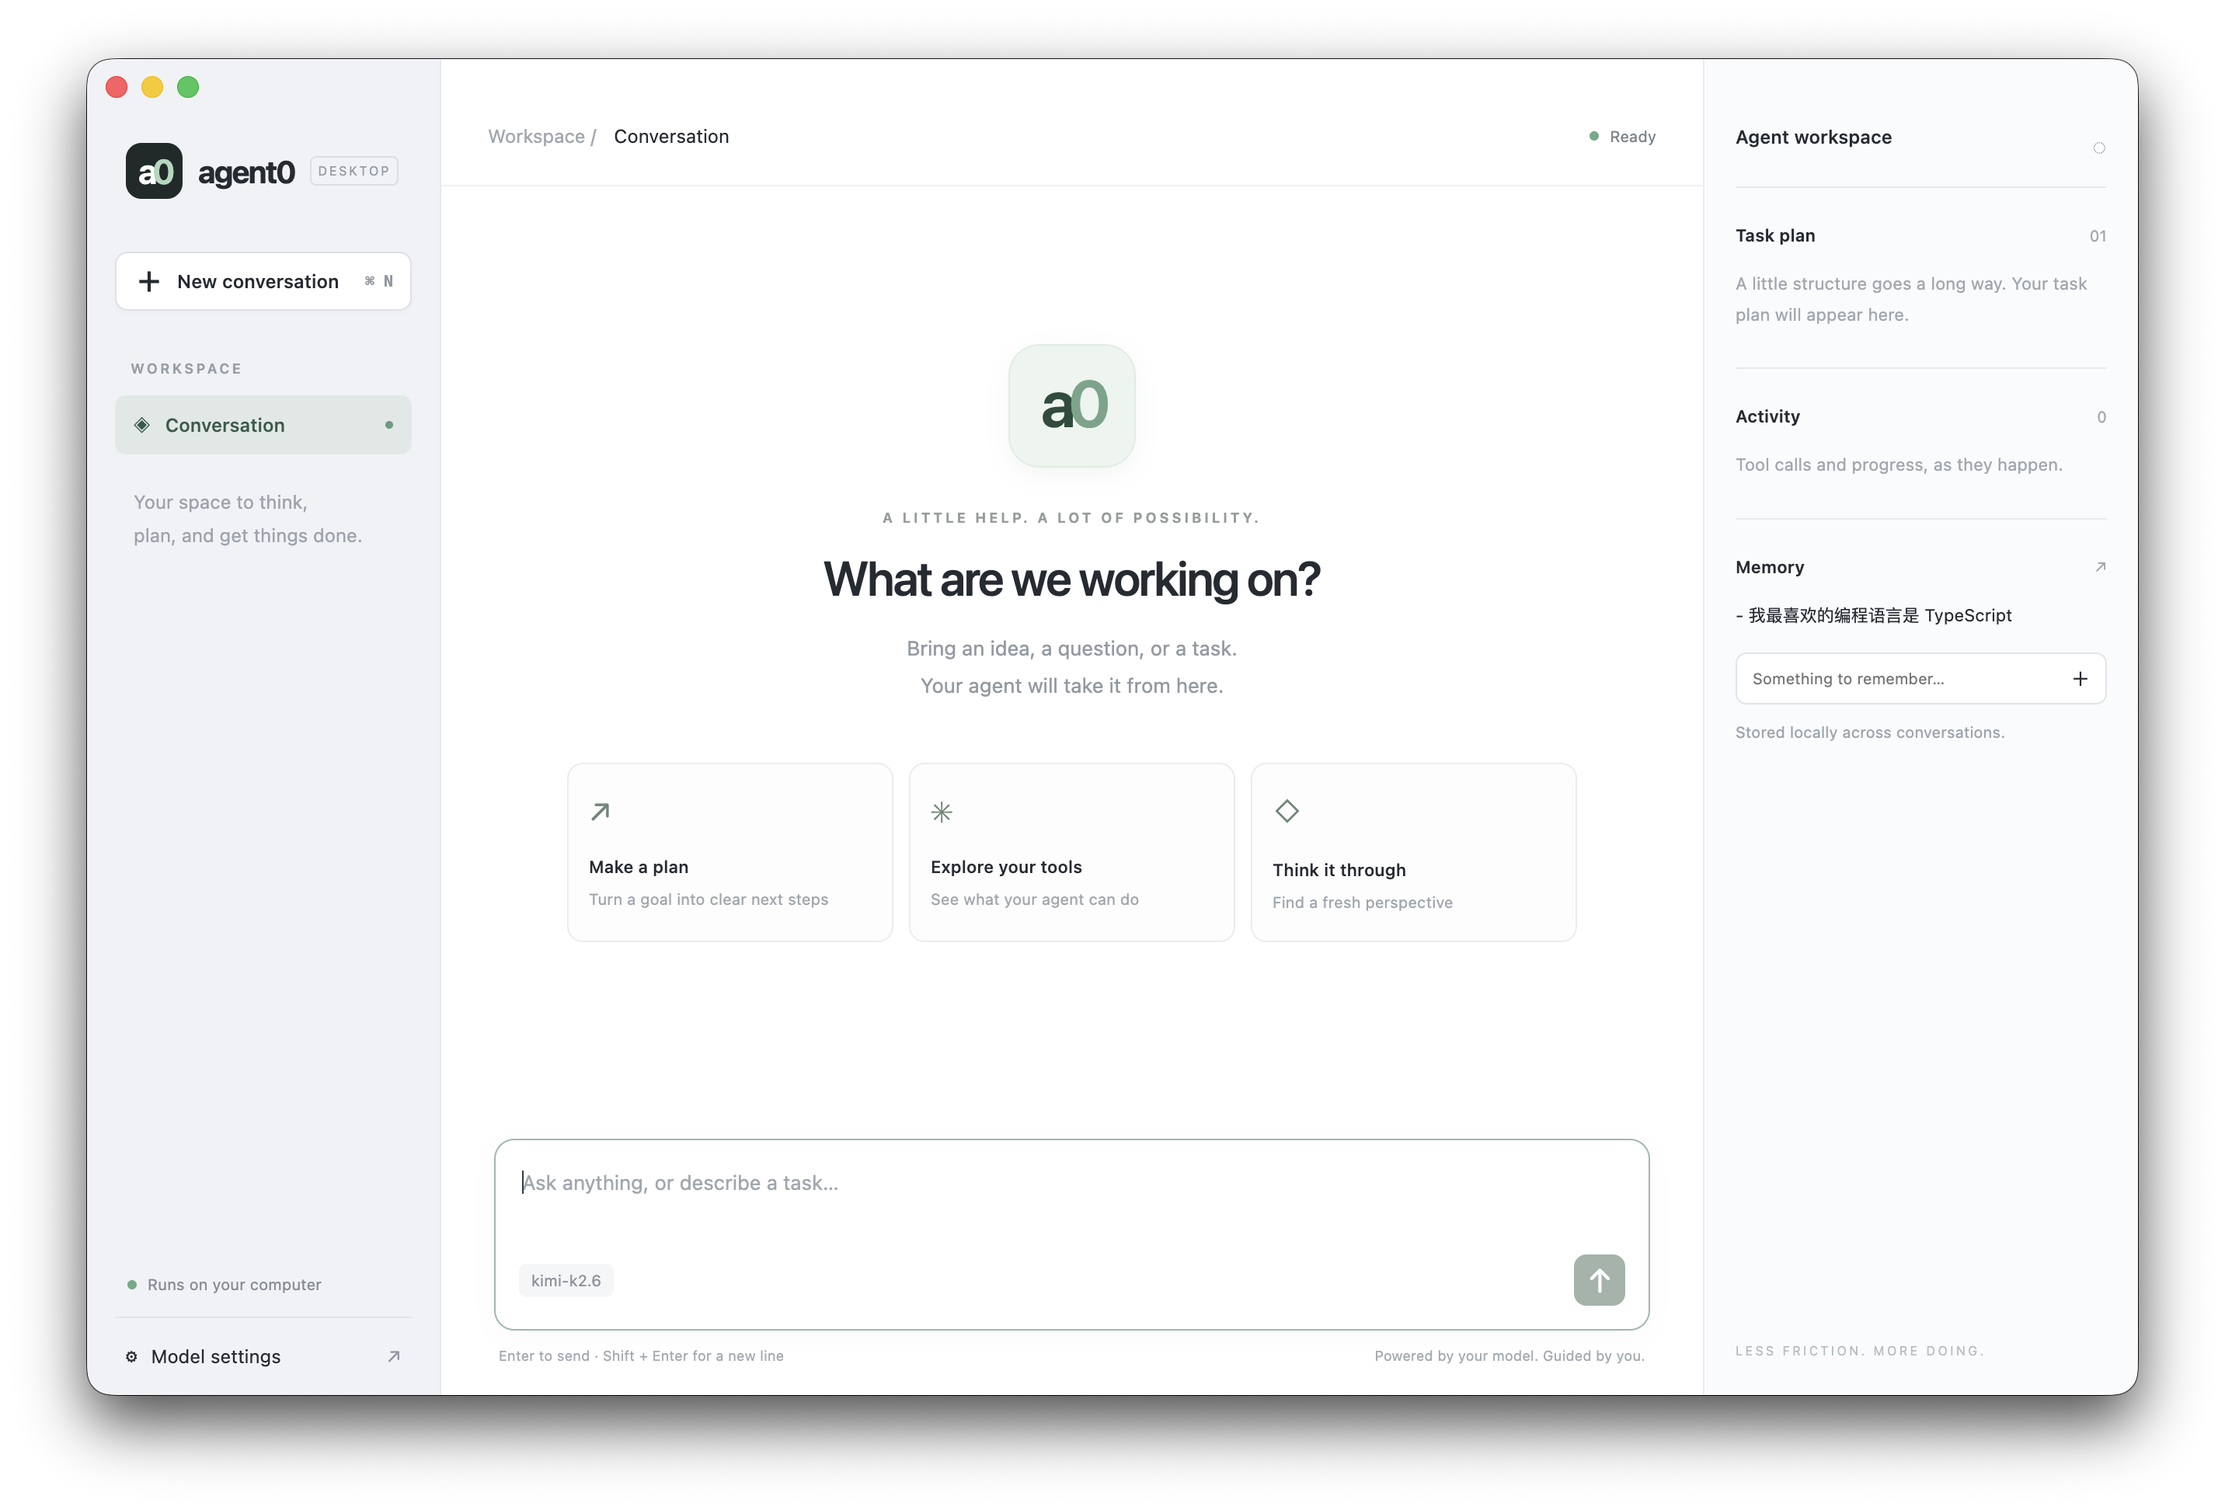
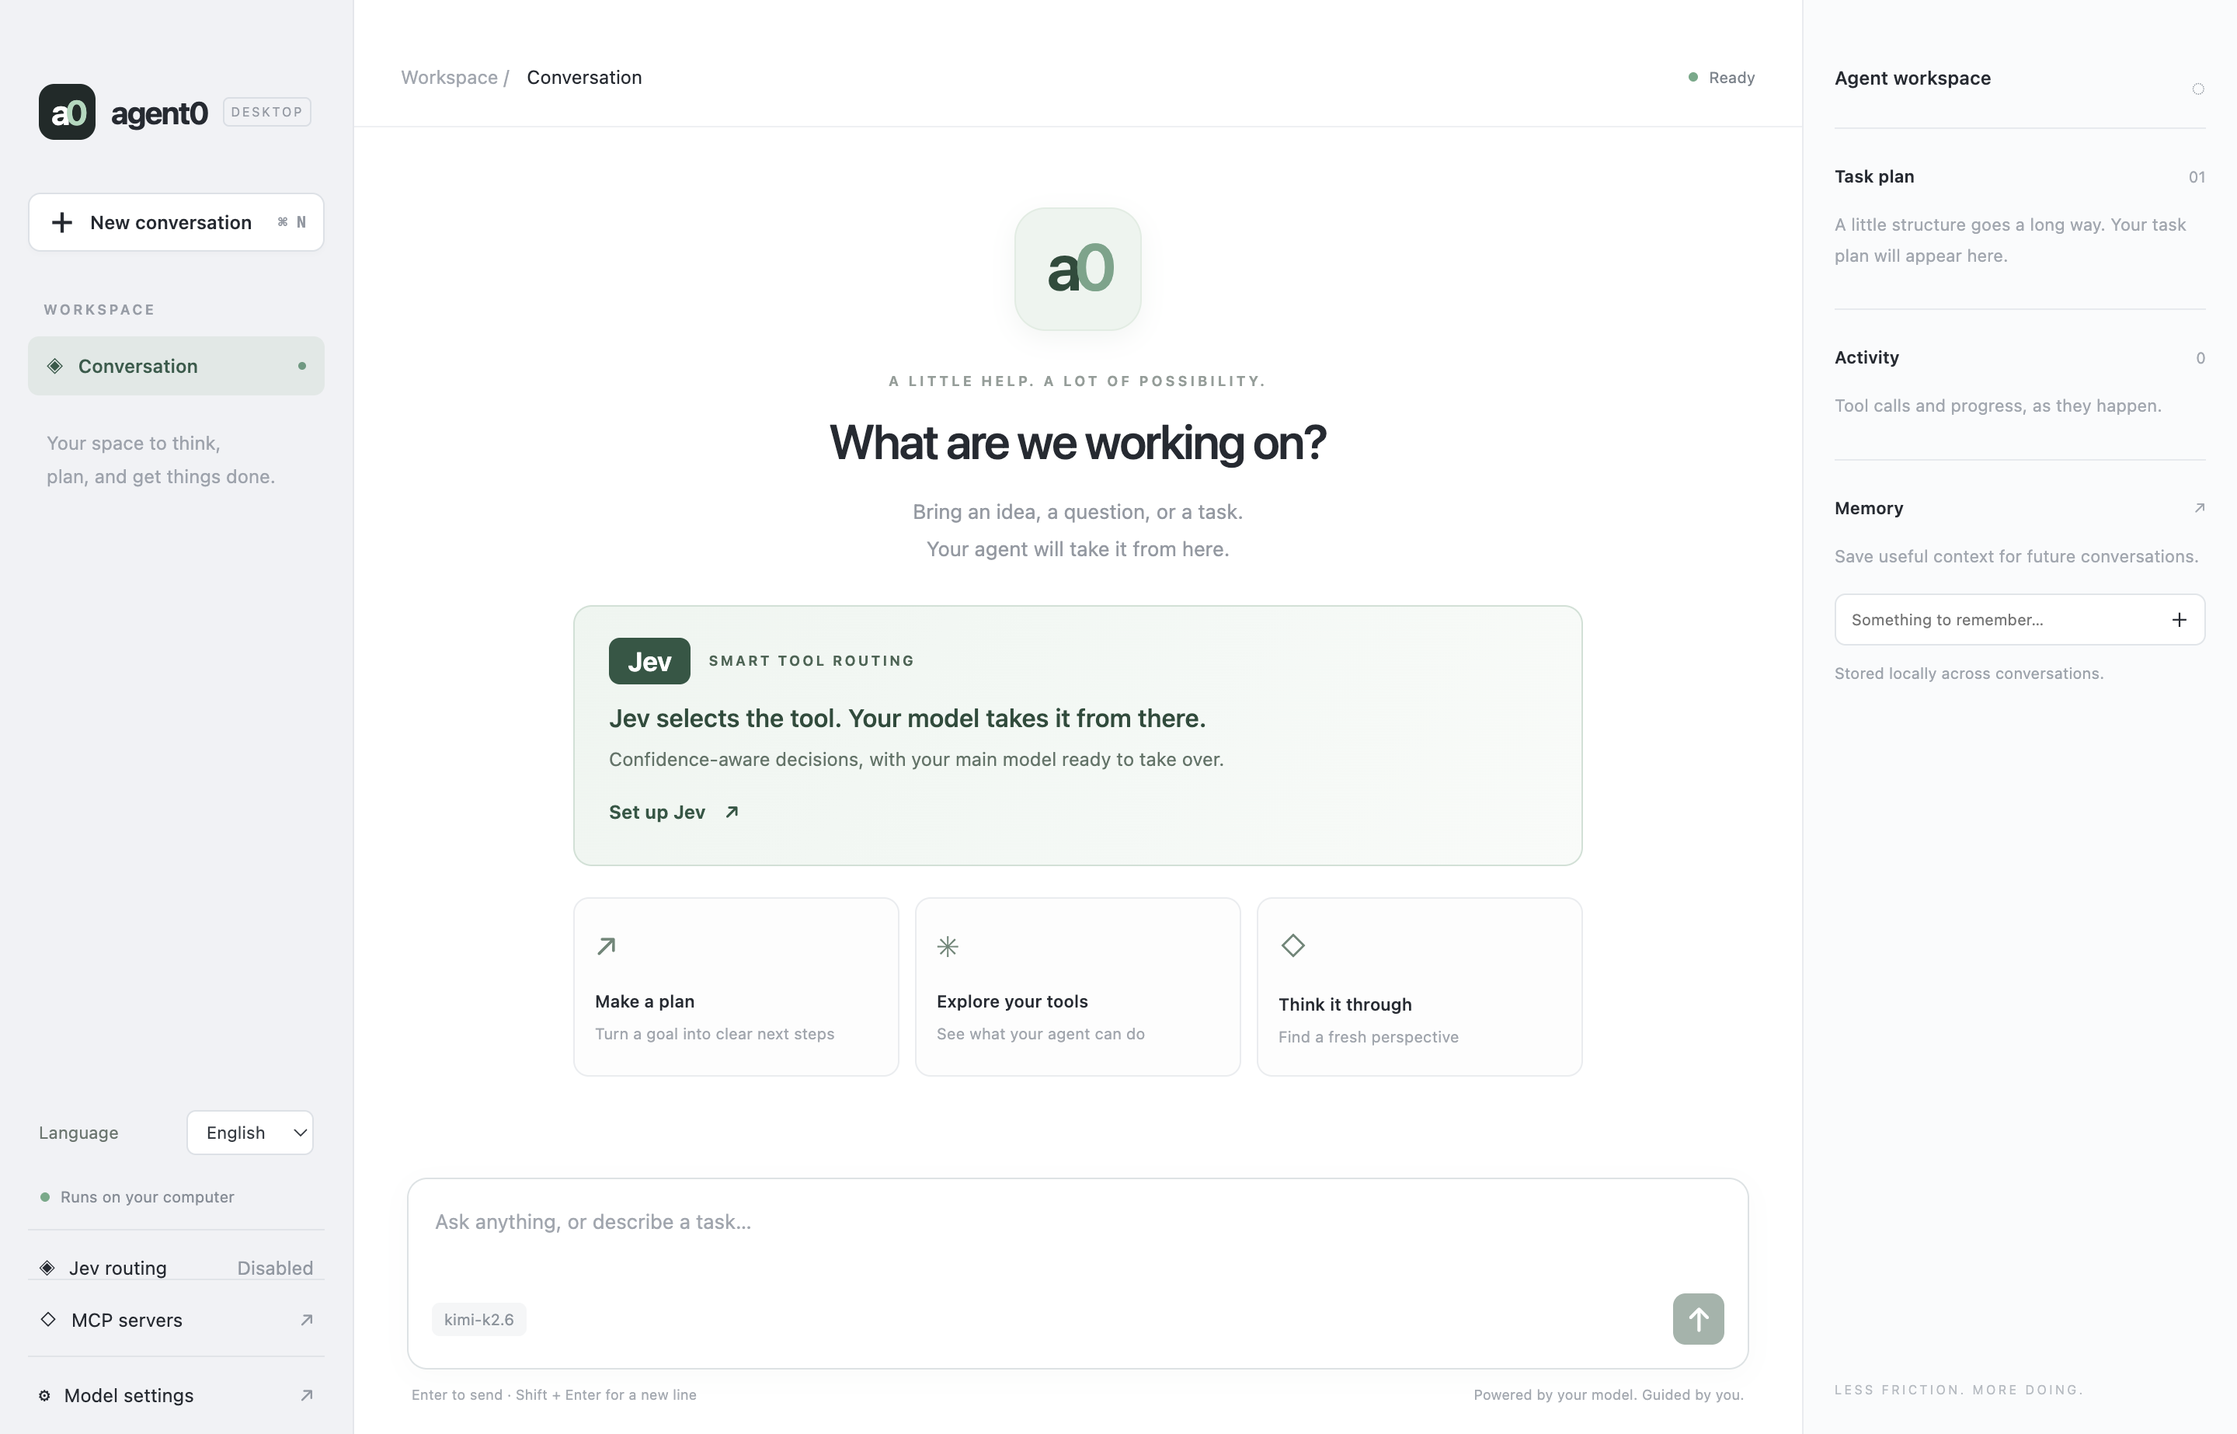
feat: highlight Jev support and add Chinese README

diff --git a/web/index.html b/web/index.html
@@ -19,7 +19,12 @@
   <main>
     <header><div><span class="breadcrumb" data-i18n="Workspace /">Workspace /</span> <span data-i18n="Conversation">Conversation</span></div><div class="connection"><span class="dot" id="status-dot"></span><span id="connection-label" data-i18n="Ready">Ready</span></div></header>
     <div id="messages" class="messages" aria-live="polite">
-      <section id="welcome" class="welcome"><div class="hero-mark">a<span>0</span></div><div class="eyebrow" data-i18n="A LITTLE HELP. A LOT OF POSSIBILITY.">A LITTLE HELP. A LOT OF POSSIBILITY.</div><h1 data-i18n="What are we working on?">What are we working on?</h1><p><span data-i18n="Bring an idea, a question, or a task.">Bring an idea, a question, or a task.</span><br><span data-i18n="Your agent will take it from here.">Your agent will take it from here.</span></p><div class="suggestions"><button data-prompt="Help me plan my day. Ask me about my priorities first." data-i18n-data-prompt="Help me plan my day. Ask me about my priorities first."><span>↗</span><strong data-i18n="Make a plan">Make a plan</strong><small data-i18n="Turn a goal into clear next steps">Turn a goal into clear next steps</small></button><button data-prompt="What tools can you use? Give me a short overview and a simple example." data-i18n-data-prompt="What tools can you use? Give me a short overview and a simple example."><span>✳</span><strong data-i18n="Explore your tools">Explore your tools</strong><small data-i18n="See what your agent can do">See what your agent can do</small></button><button data-prompt="Help me break down a complex problem. Ask me what I am trying to solve." data-i18n-data-prompt="Help me break down a complex problem. Ask me what I am trying to solve."><span>◇</span><strong data-i18n="Think it through">Think it through</strong><small data-i18n="Find a fresh perspective">Find a fresh perspective</small></button></div></section>
+      <section id="welcome" class="welcome"><div class="hero-mark">a<span>0</span></div><div class="eyebrow" data-i18n="A LITTLE HELP. A LOT OF POSSIBILITY.">A LITTLE HELP. A LOT OF POSSIBILITY.</div><h1 data-i18n="What are we working on?">What are we working on?</h1><p><span data-i18n="Bring an idea, a question, or a task.">Bring an idea, a question, or a task.</span><br><span data-i18n="Your agent will take it from here.">Your agent will take it from here.</span></p><div class="jev-feature">
+        <div class="jev-feature-heading"><span class="jev-feature-badge">Jev</span><span class="jev-feature-kicker" data-i18n="SMART TOOL ROUTING">SMART TOOL ROUTING</span></div>
+        <strong data-i18n="Jev selects the tool. Your model takes it from there.">Jev selects the tool. Your model takes it from there.</strong>
+        <p data-i18n="Confidence-aware decisions, with your main model ready to take over.">Confidence-aware decisions, with your main model ready to take over.</p>
+        <button id="jev-welcome-button" type="button"><span id="jev-welcome-label" data-i18n="Set up Jev">Set up Jev</span><span aria-hidden="true">↗</span></button>
+      </div><div class="suggestions"><button data-prompt="Help me plan my day. Ask me about my priorities first." data-i18n-data-prompt="Help me plan my day. Ask me about my priorities first."><span>↗</span><strong data-i18n="Make a plan">Make a plan</strong><small data-i18n="Turn a goal into clear next steps">Turn a goal into clear next steps</small></button><button data-prompt="What tools can you use? Give me a short overview and a simple example." data-i18n-data-prompt="What tools can you use? Give me a short overview and a simple example."><span>✳</span><strong data-i18n="Explore your tools">Explore your tools</strong><small data-i18n="See what your agent can do">See what your agent can do</small></button><button data-prompt="Help me break down a complex problem. Ask me what I am trying to solve." data-i18n-data-prompt="Help me break down a complex problem. Ask me what I am trying to solve."><span>◇</span><strong data-i18n="Think it through">Think it through</strong><small data-i18n="Find a fresh perspective">Find a fresh perspective</small></button></div></section>
       <div id="conversation"></div>
     </div>
     <div class="composer-area"><div id="error" class="error-banner" role="alert" hidden></div><div id="progress" class="progress" hidden><span class="spinner"></span><span id="progress-label" data-i18n="Thinking…">Thinking…</span></div><form id="chat-form" class="composer"><textarea id="prompt" rows="2" maxlength="32000" placeholder="Ask anything, or describe a task…" data-i18n-placeholder="Ask anything, or describe a task…" aria-label="Message" data-i18n-aria-label="Message"></textarea><div class="composer-bottom"><span id="model-label" data-i18n="Configure your model">Configure your model</span><button id="send" type="submit" title="Send message" data-i18n-title="Send message" aria-label="Send message" data-i18n-aria-label="Send message">↑</button></div></form><div class="composer-hint"><span data-i18n="Enter to send · Shift + Enter for a new line">Enter to send · Shift + Enter for a new line</span> <span data-i18n="Powered by your model. Guided by you.">Powered by your model. Guided by you.</span></div></div>

diff --git a/web/style.css b/web/style.css
@@ -256,7 +256,7 @@ header {
 
 .welcome {
   max-width: 650px;
-  margin: clamp(24px, 9vh, 100px) auto 24px;
+  margin: clamp(12px, 3vh, 32px) auto 24px;
   text-align: center;
 }
 
@@ -303,7 +303,66 @@ h1 {
   display: grid;
   grid-template-columns: repeat(3, 1fr);
   gap: 10px;
-  margin-top: 38px;
+  margin-top: 20px;
+}
+
+.jev-feature {
+  margin-top: 24px;
+  padding: 20px 22px;
+  border: 1px solid #cee0d5;
+  border-radius: 12px;
+  background: linear-gradient(120deg, #edf5ef, #f8fbf9);
+  text-align: left;
+}
+
+.jev-feature-heading {
+  display: flex;
+  align-items: center;
+  gap: 12px;
+  margin-bottom: 12px;
+}
+
+.jev-feature-badge {
+  border-radius: 7px;
+  padding: 5px 12px;
+  background: #2c5744;
+  color: white;
+  font-size: 17px;
+  font-weight: 650;
+}
+
+.jev-feature-kicker {
+  color: #476553;
+  font-size: 9px;
+  font-weight: 650;
+  letter-spacing: 1.4px;
+}
+
+.jev-feature strong {
+  color: #294c3b;
+  font-size: 16px;
+  font-weight: 550;
+}
+
+.jev-feature p {
+  color: #607468;
+  margin-top: 6px;
+  font-size: 12px;
+}
+
+.jev-feature button {
+  display: inline-flex;
+  align-items: center;
+  gap: 12px;
+  padding: 7px 0;
+  margin-top: 9px;
+  color: #2c5744;
+  font-size: 12px;
+  font-weight: 650;
+}
+
+.jev-feature button:hover {
+  text-decoration: underline;
 }
 
 .suggestions button {

diff --git a/web/jev-settings.js b/web/jev-settings.js
@@ -12,6 +12,7 @@ export function setupJevSettings() {
     $('jev-error').hidden = true;
     $('jev-settings').showModal();
   };
+  $('jev-welcome-button').onclick = () => $('jev-button').click();
   $('close-jev').onclick = () => $('jev-settings').close();
   $('jev-settings').addEventListener('close', () => { $('jev-key').value = ''; });
   $('jev-form').onsubmit = async (event) => {
@@ -32,6 +33,8 @@ export function setupJevSettings() {
       config = value;
       $('jev-button').disabled = busy;
       $('jev-save').disabled = busy;
+      $('jev-welcome-button').disabled = busy;
+      $('jev-welcome-label').textContent = t(value.enabled && value.configured ? 'Manage Jev' : 'Set up Jev');
       $('jev-status').textContent = t(value.enabled ? (value.configured ? 'Enabled' : 'Setup needed') : 'Disabled');
     },
   };

diff --git a/web/i18n.js b/web/i18n.js
@@ -1,4 +1,9 @@
 const chinese = {
+  'SMART TOOL ROUTING': '智能工具路由',
+  'Jev selects the tool. Your model takes it from there.': 'Jev 选择工具，主模型接力完成。',
+  'Confidence-aware decisions, with your main model ready to take over.': '根据置信度做出选择，不确定时由主模型接手。',
+  'Set up Jev': '配置 Jev',
+  'Manage Jev': '管理 Jev',
   'Jev routing': 'Jev 智能路由',
   'Enable Jev routing': '启用 Jev 智能路由',
   'TypeSafe API key': 'TypeSafe API 密钥',

diff --git a/README.zh-CN.md b/README.zh-CN.md
@@ -1,0 +1,91 @@
+# agent0
+
+[English](README.md) | **简体中文**
+
+一款支持 **Jev 智能工具路由**、MCP 集成、任务规划和持久记忆的桌面 AI 助手。
+
+**Jev 选择工具，主模型负责推理。** 可选启用 TypeSafe Jev，根据置信度选择相关工具，不确定时自动交由主模型处理。在活动面板中查看每次路由的选择结果、置信度和耗时。
+
+[配置 Jev](docs/configuration.md#jev-routing) · [下载桌面应用](https://github.com/xudafeng/agent0/actions/workflows/build-electron.yml)
+
+![agent0 桌面应用，展示 Jev 智能工具路由、设置入口和智能助手工作区](docs/images/agent0-desktop.png)
+
+## 桌面应用
+
+```bash
+pnpm install
+pnpm start
+```
+
+启动后会打开原生桌面窗口。在「模型设置」中选择 Kimi 或 OpenAI，填写模型 ID 和 API 密钥，即可提问或描述任务。
+
+- 按 Enter 发送，Shift + Enter 换行。
+- 在工作区面板中查看工具调用和任务计划。
+- 将有用的信息保存到「记忆」，供后续对话使用。
+- 点击「新对话」（Cmd/Ctrl + N）清空当前对话和计划，保留已保存的记忆。
+- 在侧栏或模型设置中切换英文和简体中文。界面首次启动时跟随系统语言，并在本地记住你的选择；对话内容保持原来的语言。
+- 在侧栏打开「MCP 服务」，添加本地 stdio 或远程 HTTP/SSE 服务，测试连接、查看工具并启用或停用集成。详见 [MCP 配置](docs/configuration.md#mcp-servers)（英文）。
+- 选择「内置文件系统」，选定文件夹并保存，即可让助手读写和整理该文件夹中的文件。服务随应用内置，无需另外安装 Node.js。
+- 打开「Jev 智能路由」，使用自己的 TypeSafe API 密钥启用 Jev。每次调用主模型前，Jev 会选择相关工具；活动面板显示选择结果、置信度和耗时。详见 [Jev 配置](docs/configuration.md#jev-routing)（英文）。
+
+模型回复会在每次任务运行完成后显示，工具活动则在运行过程中实时更新。重新加载窗口会保留当前对话，直到你开始新对话或退出应用。已保存的记忆和模型设置在退出后仍会保留。
+
+## 构建 macOS 应用
+
+```bash
+pnpm package
+```
+
+Apple Silicon 设备打开 `release/mac-arm64/agent0.app`，Intel 设备打开 `release/mac/agent0.app`。可以将应用复制到「应用程序」文件夹。本地构建未签名，也未进行分发公证。
+
+macOS 打包应用将设置保存到 `~/Library/Application Support/agent0/.env`，记忆和运行记录保存在同一目录下的 `data` 文件夹中。开发模式使用项目目录下的 `.env` 和 `data`。API 密钥以明文保存在本地，不会打包进应用；请求发送给所配置的模型服务商。
+
+应用图标位于 `desktop/assets`。修改 `icon.svg` 后，在 macOS 上运行 `pnpm build:icons` 重新生成 PNG 和 ICNS 文件，再运行 `pnpm package` 重新打包。
+
+## GitHub Actions 构建与下载
+
+**Build Electron app** 工作流支持分支推送、`v*` 标签、Pull Request 和手动触发。它使用固定版本的 pnpm，通过 `pnpm install --no-frozen-lockfile` 根据 `package.json` 安装依赖，执行类型检查和单元测试后生成以下产物。锁文件被忽略，因此不同构建使用的具体依赖版本可能变化。
+
+| 平台 | 架构 | 下载产物 |
+| --- | --- | --- |
+| macOS | Apple Silicon（arm64） | 包含 `agent0.app` 的 ZIP |
+| macOS | Intel（x64） | 包含 `agent0.app` 的 ZIP |
+| Windows | x64 | NSIS `.exe` 安装包 |
+| Linux | x64 | `.AppImage` |
+
+打开 **Actions → Build Electron app → 成功的构建记录 → Artifacts**，下载对应平台的产物。先解压 GitHub 产物压缩包；macOS 用户再解压其中的应用 ZIP，将 `agent0.app` 移到「应用程序」；Linux 用户需先为 AppImage 添加可执行权限，再启动应用。下载产物保留 14 天。
+
+工作流合入默认分支后，可点击 **Run workflow** 手动构建。合并前也可以通过分支推送触发构建。产物未签名，macOS 产物未公证，操作系统可能要求确认后才能打开。CI 不需要签名证书或模型 API 密钥，用户在应用中配置自己的密钥。该工作流上传 Actions 产物，不会发布 GitHub Releases。
+
+Apple Silicon 构建还会运行桌面集成冒烟测试。Intel macOS 版本在同一 Apple Silicon runner 上交叉打包；Windows、Linux 和 Intel macOS 的实际启动行为仍需在对应系统上验证。
+
+## 命令行
+
+```bash
+cp .env.example .env
+# Fill in your provider settings.
+pnpm cli
+```
+
+复制后，在 `.env` 中填写模型服务商配置。
+
+| 命令 | 说明 |
+| --- | --- |
+| `/memory` | 查看持久记忆。 |
+| `/remember <text>` | 保存一条记忆。 |
+| `/task` | 查看当前任务计划。 |
+| `exit` | 退出。 |
+
+模型服务商设置详见[配置文档](docs/configuration.md)（英文）。
+
+## 开发
+
+```bash
+pnpm typecheck
+pnpm test
+pnpm build
+pnpm test:desktop
+pnpm eval
+```
+
+桌面冒烟测试使用隔离的临时配置和本地模拟模型接口，不使用你的 API 密钥。评估命令 `pnpm eval` 会调用你配置的真实模型。

diff --git a/README.md b/README.md
@@ -1,8 +1,14 @@
 # agent0
 
-A desktop AI agent with conversations, live tool activity, task planning, MCP integration, and persistent memory.
+**English** | [简体中文](README.zh-CN.md)
 
-![agent0 desktop app showing the conversation view and agent workspace](docs/images/agent0-desktop.png)
+A desktop AI agent with **Jev-powered tool routing**, MCP integration, task planning, and persistent memory.
+
+**Jev selects the tool. Your model handles the reasoning.** Enable optional TypeSafe Jev routing to select relevant tools with confidence-based fallback to your main model. Follow each decision, confidence score, and latency in the Activity panel.
+
+[Set up Jev](docs/configuration.md#jev-routing) · [Download desktop builds](https://github.com/xudafeng/agent0/actions/workflows/build-electron.yml)
+
+![agent0 desktop app featuring Jev tool routing, its setup shortcut, and the agent workspace](docs/images/agent0-desktop.png)
 
 ## Desktop app
 
